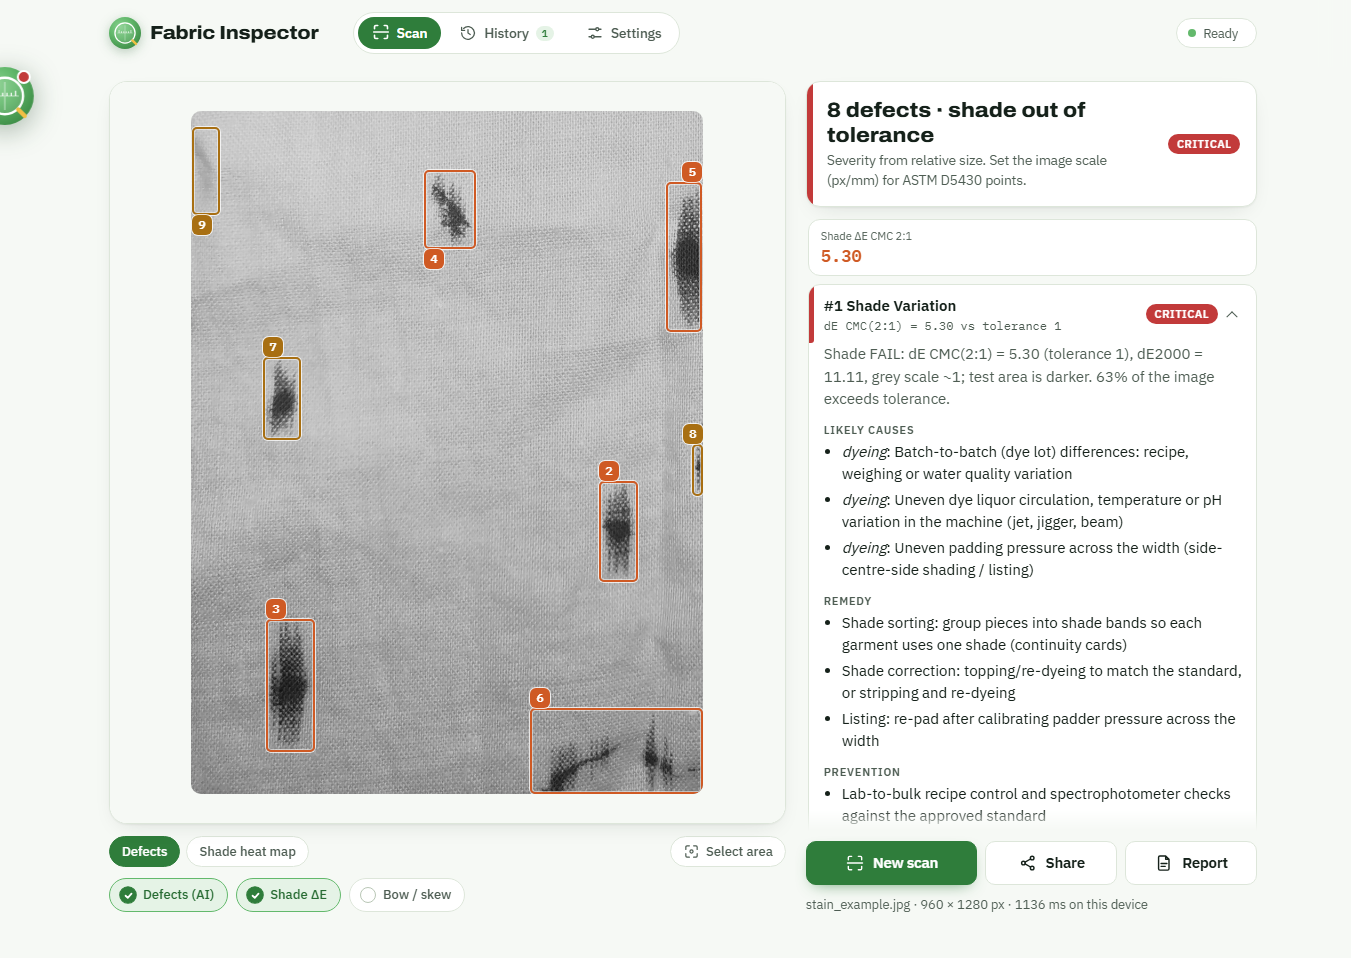
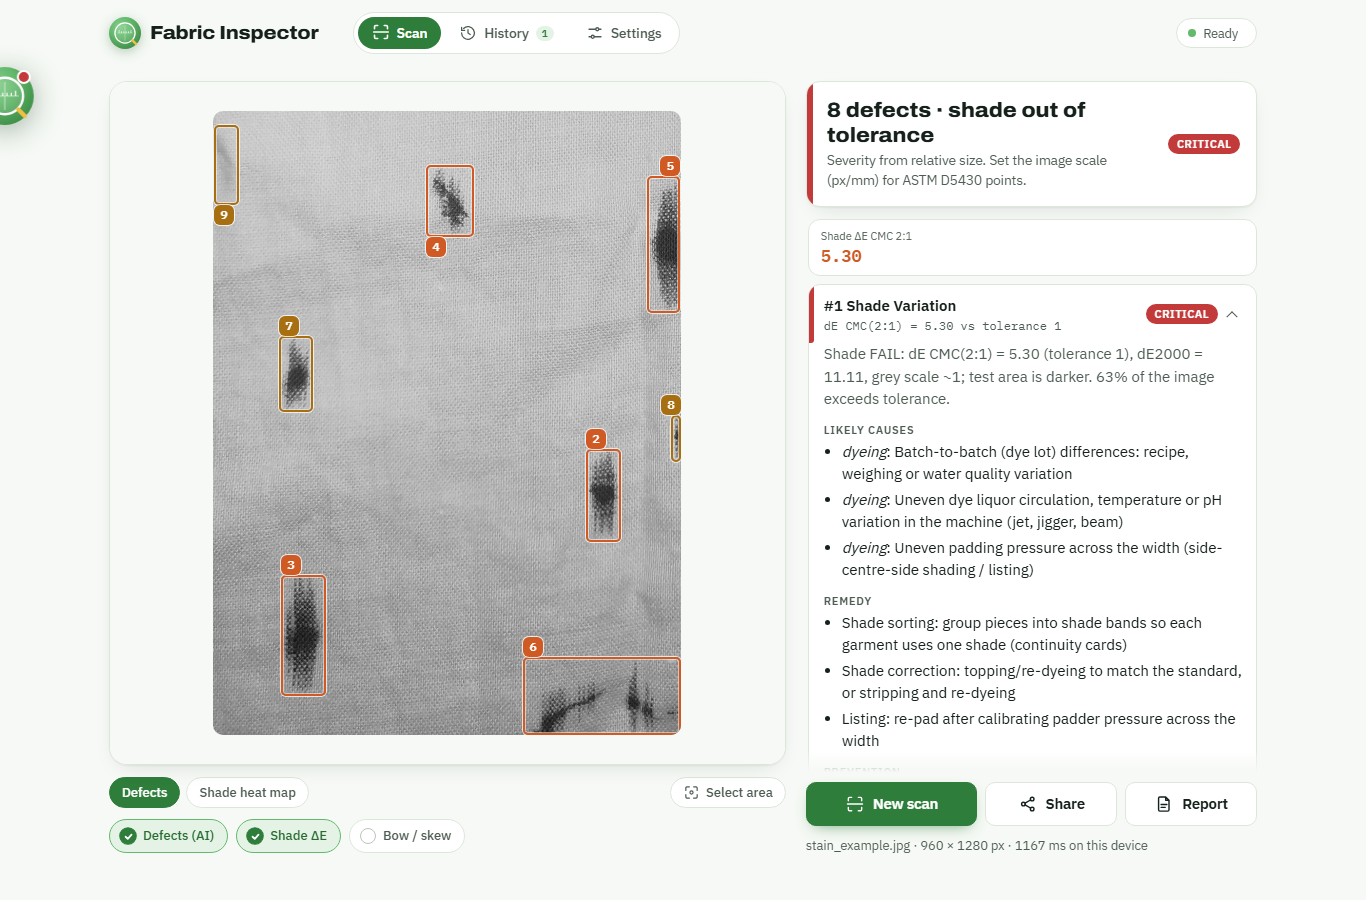
Show the model input size in Settings; desktop page fits the window
Settings shows 'model 960 px' so users can tell the new model is active. The result
panel height now leaves room for the header, so the action buttons are never cut off;
the parity test checks that the desktop page fits a 900 px window.

diff --git a/web_static/sw.js b/web_static/sw.js
@@ -1,5 +1,5 @@
-// Offline cache (generated by build_static.py) - version be23b0ee87
-const CACHE = "fdi-be23b0ee87";
+// Offline cache (generated by build_static.py) - version f17ae87c32
+const CACHE = "fdi-f17ae87c32";
 const FILES = ["css/app.css", "examples/hole_example.jpg", "examples/skew_example.jpg", "examples/stain_example.jpg", "icons/icon-192.png", "icons/icon-512.png", "index.html", "iphone.html", "js/app.js", "js/bubble.js", "js/camera.js", "js/detector.js", "js/imgutil.js", "js/kb.js", "js/shade.js", "js/skew.js", "js/store.js", "js/verdict.js", "kb.json", "manifest.webmanifest", "model/best.onnx", "ort/ort-wasm-simd-threaded.mjs", "ort/ort-wasm-simd-threaded.wasm", "ort/ort.wasm.min.mjs"];
 const clean = (r) => (r && r.redirected ? r.blob().then((b) => new Response(b, { status: 200, headers: r.headers })) : r);
 // one file at a time with retries: on a weak mobile connection a single failed download must not undo the rest

diff --git a/web_static/css/app.css b/web_static/css/app.css
@@ -381,7 +381,7 @@ body.pipbody[data-view="bubble"] { display: grid; place-items: center; min-heigh
 
 /* wide screens: both columns have the same fixed height; the findings scroll inside their box */
 @media (min-width: 900px) {
-  #scr-scan { --colh: max(460px, calc(100dvh - 96px)); }
+  #scr-scan { --colh: max(460px, calc(100dvh - 126px)); }
   #scr-scan[data-state=photo] { --maxh: calc(var(--colh) - 150px); }
   #scr-scan[data-state=photo] .stagecol { height: var(--colh); grid-template-rows: minmax(0, 1fr) auto auto; }
   #scr-scan[data-state=photo] .stage { display: grid; min-height: 0; }

diff --git a/web_static/js/app.js b/web_static/js/app.js
@@ -605,7 +605,7 @@ async function init() {
   const bytes = await fetchModel("model/best.onnx");
   status("Starting AI", "loading");
   detector = await Detector.create(bytes);
-  $("engineInfo").textContent = detector.backend.startsWith("compat") ? "compatibility (slower)" : "fast (SIMD)";
+  $("engineInfo").textContent = (detector.backend.startsWith("compat") ? "compatibility (slower)" : "fast (SIMD)") + ` · model ${detector.size} px`;
   status("Ready");
 }
 

diff --git a/tests/test_static.py b/tests/test_static.py
@@ -144,6 +144,7 @@ try:
         time.sleep(1.5)                                             # let the result animations finish
         js("indexedDB.deleteDatabase('fabric-inspector'); window.scrollTo(0, 0); true")
         full_h = js("document.documentElement.scrollHeight")
+        if not mobile: print(f"desktop page height {full_h} for a {h} px window:", "PASS fits without scrolling" if full_h <= h + 1 else "FAIL page scrolls")
         cdp("Emulation.setDeviceMetricsOverride", width=w, height=min(full_h, 4000), deviceScaleFactor=1, mobile=mobile)
         time.sleep(0.5)
         png = cdp("Page.captureScreenshot", format="png", captureBeyondViewport=True)["data"]
